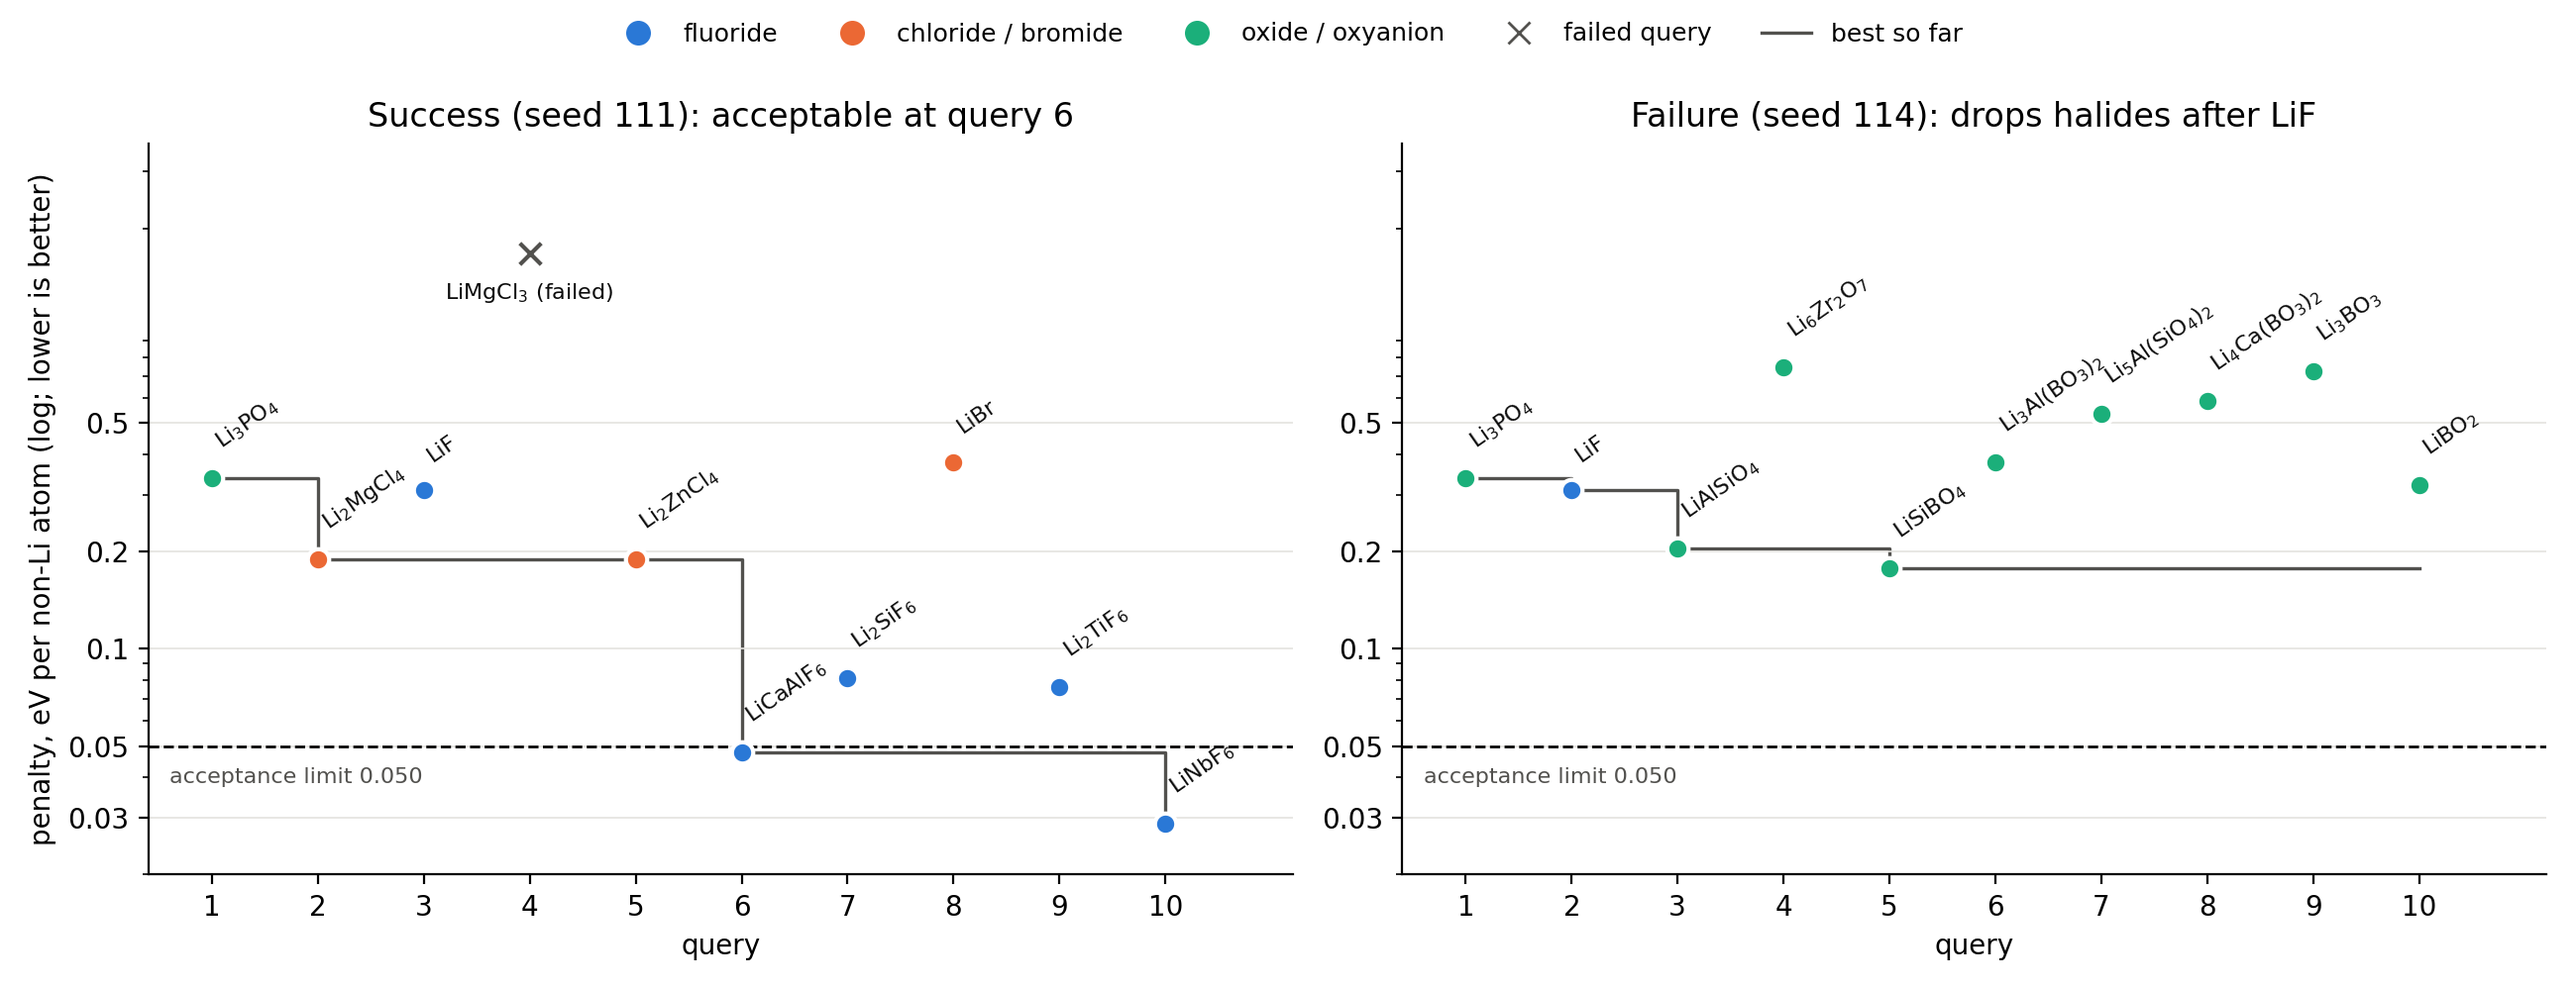
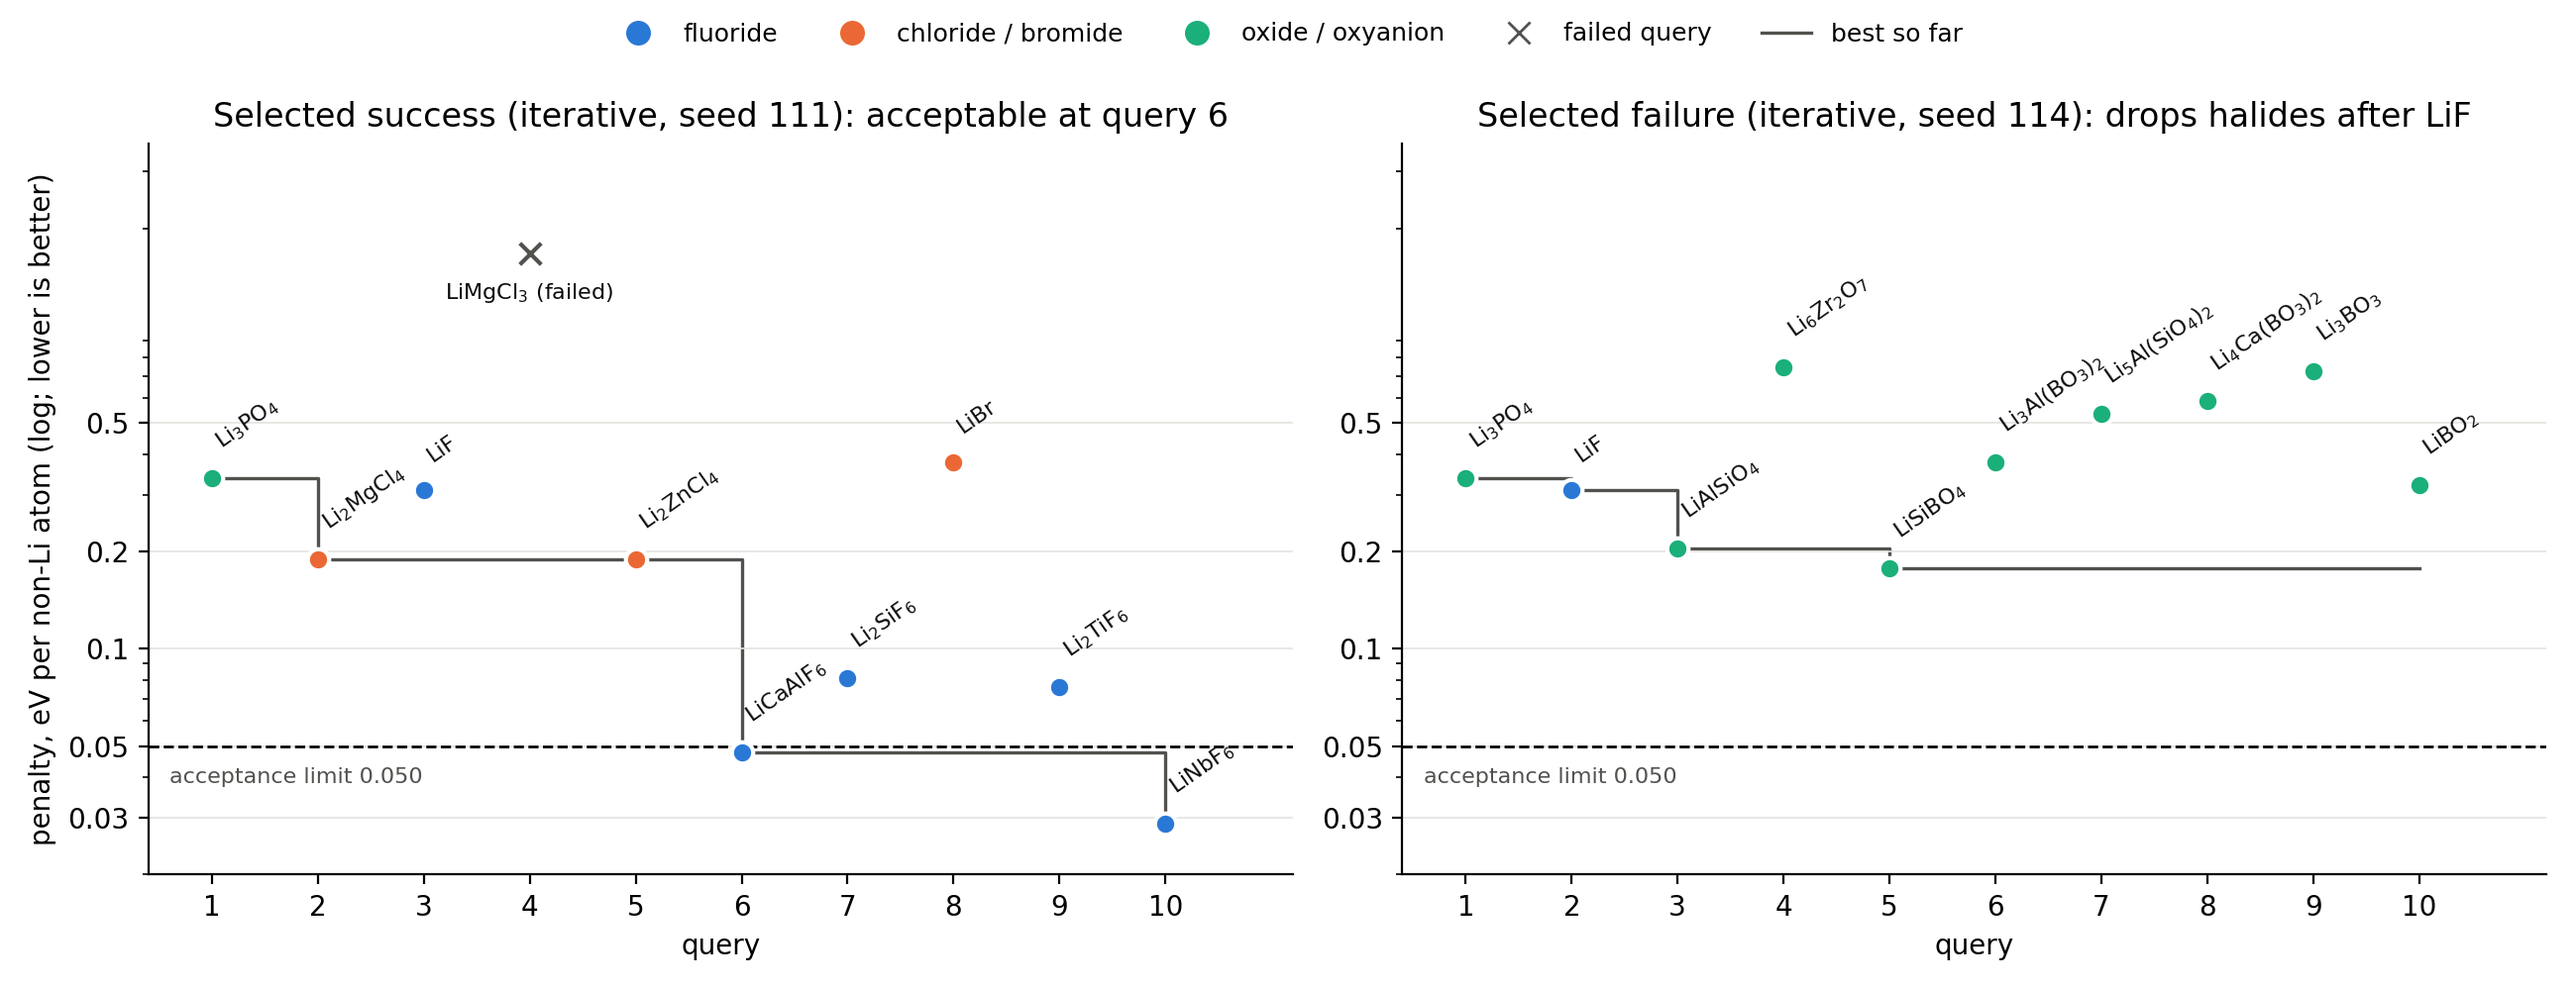
Address SYNC_ADEM_4: median edge case, shuffle accounting, labels
The exact random median no longer raises StopIteration when fewer than
half the pool is eligible: such steps are inf (null in JSON, the
no-valid band in the plot); sparse and all-ineligible tests added. The
shuffled archive README now states the chronology (planned follow-up
after the iterative-vs-sequential result) and per-turn counts of
displaced feedback from displayed_sources; hashes recomputed. Trace
figure titles mark r111 and r114 as selected examples. Adds Davide's
SYNC_ADEM_4.md to the branch.

Changed region(s): [[0.5608, 0.093, 0.9658, 0.124], [0.0935, 0.093, 0.4673, 0.155]]

diff --git a/scripts/analyse_discovery_experiment.py b/scripts/analyse_discovery_experiment.py
@@ -50,6 +50,13 @@ def best_bin(results):
     return min((-k[1] for k in keys if k[0]), default=math.inf)
 
 
+def exact_median_best_bin(table, budget):
+    """Exact random median of the best eligible bin after k draws; inf when below 50% eligible-hit."""
+    valid = sorted(-ranking_key(r)[1] for r in table if ranking_key(r)[0])
+    return [next((b for b in valid if random_success_curve(len(table), sum(v <= b for v in valid), k)[-1] >= 0.5),
+                 math.inf) for k in range(1, budget + 1)]
+
+
 def load_experiments(directories, *, benchmark=None, replace_duplicates=False, allow_setting_mismatch=False):
     exps = [(d, json.loads((d / 'experiment.json').read_text())) for d in directories]
     exp = exps[0][1]
@@ -145,9 +152,7 @@ def main():
         per_k = [sorted(best_bin([h["result"] for h in r["history"][:k]]) for r in arm_runs) for k in steps]
         n = len(arm_runs)
         bins[arm] = [(v[(n - 1) // 4], v[(n - 1) // 2], v[math.ceil(3 * (n - 1) / 4)]) for v in per_k]
-    valid = sorted(-ranking_key(r)[1] for r in table if ranking_key(r)[0])
-    exact_median = [next(b for b in valid if random_success_curve(len(table), sum(v <= b for v in valid), k)[-1] >= 0.5)
-                    for k in steps]
+    exact_median = exact_median_best_bin(table, budget)
     heuristic_bins = [best_bin(heuristic[:k]) for k in steps] if not exp['synthetic'] else None
     print(f"\nmedian best bin so far at k = 1..{budget} (inf = no valid candidate yet)")
     for arm, rows in bins.items():
@@ -167,7 +172,7 @@ def main():
                 usage[arm][token] = sum(((a.get('llm_metadata') or {}).get('usage') or {}).get(token,0) for a in attempts)
         finite = lambda x: None if x == math.inf else x
         best_bins = {arm: [[finite(x) for x in row] for row in rows] for arm, rows in bins.items()}
-        best_bins['random (exact median)'] = exact_median
+        best_bins['random (exact median)'] = [finite(x) for x in exact_median]
         if heuristic_bins:
             best_bins['fluorides first (post-hoc)'] = [finite(x) for x in heuristic_bins]
         summary = {'hashes':exp['hashes'], 'curves':curves, 'usage':usage, 'analysis_notes':exclusions,
@@ -204,12 +209,12 @@ def main():
         axes[1].sharey(axes[0])
         ax = axes[2]
         finite_values = [x for rows in bins.values() for row in rows for x in row if x != math.inf]
-        top = max(finite_values + exact_median) + 3
+        top = max(finite_values + [x for x in exact_median if x != math.inf], default=0) + 3
         for arm, rows in bins.items():
             lo, med, hi = ([min(x, top) for x in col] for col in zip(*rows))
             line, = ax.plot(steps, med, marker="o", lw=2, color=ARM_COLORS.get(arm), label=arm)
             ax.fill_between(steps, lo, hi, color=line.get_color(), alpha=0.15)
-        ax.plot(steps, exact_median, "k--")
+        ax.plot(steps, [min(x, top) for x in exact_median], "k--")
         if heuristic_bins:
             ax.plot(steps, [min(x, top) for x in heuristic_bins], ":", color="grey")
         ax.axhline(top, color="grey", lw=0.5)

diff --git a/tests/test_experiment_analysis.py b/tests/test_experiment_analysis.py
@@ -55,3 +55,14 @@ def test_unfinished_run_cannot_be_analysed_as_failure(tmp_path):
     run=json.loads(path.read_text());run['status']='running';path.write_text(json.dumps(run))
     with pytest.raises(ValueError, match='unfinished'):
         load_experiments([directory])
+
+
+def test_exact_median_is_inf_when_eligible_candidates_are_sparse():
+    from scripts.analyse_discovery_experiment import exact_median_best_bin
+    ok = lambda b: {'status': 'ok', 'insulating': True, 'penalty_bin': b}
+    bad = {'status': 'failed'}
+    sparse = [ok(1), ok(4)] + [bad] * 8          # 2 of 10 eligible
+    # k=1,2: P(any eligible) = 0.2, 0.38 < 0.5; k=3: P(bin<=4) = 1 - C(8,3)/C(10,3) = 0.53;
+    # k=5: P(bin<=1) = 1 - C(9,5)/C(10,5) = 0.5
+    assert exact_median_best_bin(sparse, 5) == [float('inf'), float('inf'), 4, 4, 1]
+    assert exact_median_best_bin([bad] * 6, 3) == [float('inf')] * 3

diff --git a/SYNC_ADEM_4.md b/SYNC_ADEM_4.md
@@ -1,0 +1,83 @@
+# Recommended next run after ea0326d
+
+21 October 2026. Prepared for Davide to share with Adem; not sent automatically.
+This records a recommendation, not a launched experiment.
+
+## Decisions
+
+**Run shuffled feedback next: 30 repeats on the original frozen v3 benchmark.**
+Use seeds 100–129, budget 10, direct Anthropic Haiku 5.5, temperature 1.0, output
+cap 4096, and the unchanged `v3-2026-10-21c-charged-ids` prompt. Pin the control
+implementation to ea0326d (or record a successor and its changes). Preserve all
+attempts, charged failures, true outcomes and displayed-source maps. About 300
+proposal calls before retries; run the declared 30 regardless of the outcome.
+
+```bash
+python scripts/run_discovery_experiment.py \
+  --arms shuffled --repeats 30 --start-seed 100 --budget 10 \
+  --temperature 1.0 --max-tokens 4096 --workers 3 \
+  --out runs/shuffled_v3_followup
+```
+
+Use the existing authorized local credential configuration. Keep this new batch
+separate from the original archive, replay its true query results, and combine
+only at analysis time with the matched integrated 30-run cohort. The old ten-run
+cohort remains separate. Record returned model ID and complete usage metadata.
+There is no need to rerun the existing four arms solely to add this control.
+
+**Defer IDs-only.** Its comparison against sequential isolates the effect of
+retaining earlier rationales, making it a useful diagnostic of anchoring. It is
+secondary to whether informative feedback helps and would add about 300 calls.
+If pursued later, define it as a separate fixed follow-up; do not use the shuffled
+result as a reason to change endpoints or keep running until one arm looks good.
+Reserve the next budget decision for that diagnostic versus the broader environment
+study after its phase-data coverage and endpoints are validated.
+
+**Prepare the figure and r111/r114 examples now.** Show the full 30-run denominator,
+95% Wilson intervals for success, IQR for best-bin spread, exact random and the
+post-hoc fluoride-first rule. Label r111 as a selected successful example and r114
+as a selected failure. The numerical feedback can be checked; proposed chemical
+mechanisms remain hypotheses. Do not overwrite the original archived figure.
+
+## Interpretation of the new control
+
+The main question is whether correct associations between queried candidates and
+their results improve selection. This shuffled implementation corrupts those
+associations but also changes earlier displayed outcomes while preserving old
+rationales. Products/errors can reveal source chemistry, and the first result
+cannot be shuffled. These limits are already disclosed in the branch and should
+remain in the analysis and slides.
+
+A lower success rate with corrupted feedback supports dependence on informative
+feedback in this prompt/history setup; it is not a unique proof of chemical
+reasoning. An uncertain or absent difference is inconclusive, especially because
+some information remains usable. Report the comparison either way, with the
+uncertainty, and quantify how many displayed slots actually changed source at
+each turn from the logged maps. Do not describe the control as fully blinding all
+chemical information.
+
+Retain acceptance by query 10 as the original endpoint and the best-bin/threshold
+sensitivities as labelled secondary results. The iterative-versus-shuffled contrast
+is a planned follow-up to the already observed iterative-versus-sequential result,
+not part of a blind original preregistration. State this chronology.
+
+## Review performed here
+
+Fetched ea0326d and inspected SYNC_DAVIDE_3.md and the code diff. Tested an isolated
+git archive to leave shared working files intact: **41 tests passed** across
+discovery, analysis, batch audit, benchmark, Anthropic restrictions and viewer.
+The analysis reproduced acceptance 19/10/4/4 and best-bin counts 7/6/0/1 for
+iterative/random/sequential/upfront. The three-panel plot was generated and visually
+inspected. Deterministic smoke comparisons against b210db0 showed identical prompt
+payloads, histories and traces for all original four arms. No paid calls occurred.
+
+One robustness issue for later expansion: the new exact-median expression uses
+`next(...)` without a default. When fewer than half the pool is eligible at an
+early budget, no finite bin reaches cumulative probability 0.5 and it raises
+StopIteration. Represent that median as no eligible result (infinity internally,
+null in JSON and the labelled plot level), including an all-ineligible table.
+Add sparse/all-ineligible fixture coverage. This does not block the current v3
+run, which has 47 eligible candidates out of 50.
+
+The agent branch was not merged into the local davide checkout by this review.
+No experiment, cross-session message, commit or push was initiated here.

diff --git a/data/experiments/shuffled_v3_20261021_s100/README.md b/data/experiments/shuffled_v3_20261021_s100/README.md
@@ -22,6 +22,32 @@ Paired by seed against iterative: iterative-only 16, shuffled-only 3, both 3; ex
 McNemar p = 0.004. 300 proposal calls with no malformed retries and 2 charged invalid IDs; all
 300 query results replay exactly (`replay_audit.json`).
 
+**Chronology.** The primary endpoint (acceptable found by query 10) and the four original arms
+were set before any results. Iterative against sequential was observed first. This
+iterative-against-shuffled comparison is a planned follow-up decided after that result. It was
+not part of a blind original preregistration. The 30 runs were declared before launch and all
+are reported.
+
+**How much was actually shuffled** (from `displayed_sources`; turn t = the history shown after t
+queries, i.e. to proposal t + 1; real slots exclude charged invalid/repeated IDs):
+
+| After query | Real slots shown | Displaced (mean) | Runs with ≥ 1 displaced | Earlier slots changed vs previous turn (mean) |
+|---|---|---|---|---|
+| 1 | 1.00 | 0.00 | 0/30 | 0.00 |
+| 2 | 2.00 | 0.93 | 14/30 | 0.47 |
+| 3 | 3.00 | 1.83 | 25/30 | 0.53 |
+| 4 | 3.97 | 2.83 | 30/30 | 0.70 |
+| 5 | 4.97 | 3.93 | 30/30 | 0.83 |
+| 6 | 5.93 | 5.00 | 30/30 | 0.90 |
+| 7 | 6.93 | 6.07 | 30/30 | 0.87 |
+| 8 | 7.93 | 7.03 | 30/30 | 0.87 |
+| 9 | 8.93 | 8.10 | 30/30 | 0.90 |
+| 10 | 9.93 | 9.23 | 30/30 | 0.93 |
+
+On average about one real slot keeps its own outcome (a uniform permutation has one expected
+fixed point), so some correct information remains. The control does not blind all chemical
+information.
+
 **Reading.** The benefit of feedback depends on outcomes being attached to the right candidates,
 not just on seeing plausible numbers. Limits: a moved outcome can contradict an earlier rationale,
 and reaction products can hint at their true source. This is sensitivity to corrupted feedback,
